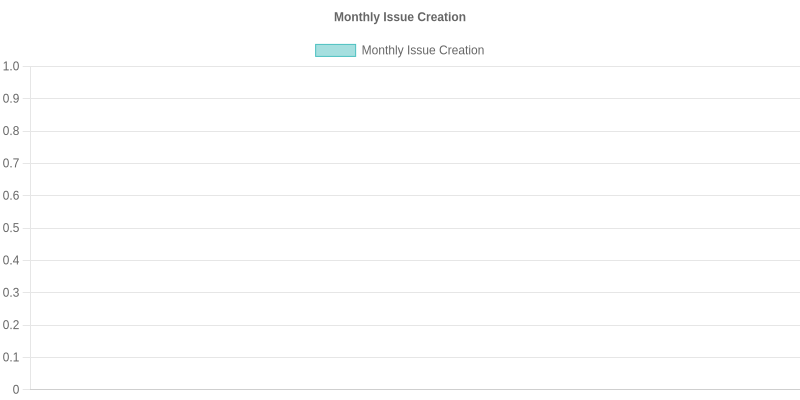
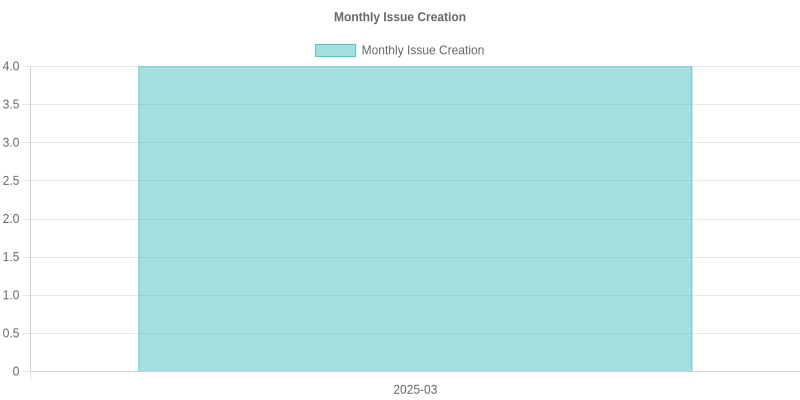
deploy: 07c3749c7718960ff4e5f8d883d745de041b5a2b

diff --git a/index.html b/index.html
@@ -19,18 +19,18 @@
   <body>
       <div class="container mt-4">
           <h1>プロジェクト Issue ダッシュボード</h1>
-          <p>最終更新: 2025/6/25 6:31:00</p>
+          <p>最終更新: 2025/6/25 12:42:16</p>
           
           <div class="row mt-4">
               <div class="col-md-4">
                   <div class="card stat-card">
-                      <div class="stat-number text-primary">0</div>
+                      <div class="stat-number text-primary">4</div>
                       <div>総Issue数</div>
                   </div>
               </div>
               <div class="col-md-4">
                   <div class="card stat-card">
-                      <div class="stat-number text-success">0</div>
+                      <div class="stat-number text-success">4</div>
                       <div>未解決Issue</div>
                   </div>
               </div>
@@ -51,6 +51,21 @@
                       <div class="card-body">
                           <ul class="list-group">
                               
+                                  <li class="list-group-item d-flex justify-content-between align-items-center">
+                                      バグ
+                                      <span class="badge bg-primary rounded-pill">2</span>
+                                  </li>
+                              
+                                  <li class="list-group-item d-flex justify-content-between align-items-center">
+                                      その他
+                                      <span class="badge bg-primary rounded-pill">1</span>
+                                  </li>
+                              
+                                  <li class="list-group-item d-flex justify-content-between align-items-center">
+                                      機能リクエスト
+                                      <span class="badge bg-primary rounded-pill">1</span>
+                                  </li>
+                              
                           </ul>
                       </div>
                   </div>
@@ -63,6 +78,11 @@
                       </div>
                       <div class="card-body">
                           <ul class="list-group">
+                              
+                                  <li class="list-group-item d-flex justify-content-between align-items-center">
+                                      未設定
+                                      <span class="badge bg-primary rounded-pill">4</span>
+                                  </li>
                               
                           </ul>
                       </div>
@@ -126,6 +146,34 @@
                                   </thead>
                                   <tbody>
                                       
+                                          <tr>
+                                              <td>5</td>
+                                              <td><a href="https://github.com/refrainit/python-project-template/issues/5" target="_blank">[バグ]:</a></td>
+                                              <td>バグ</td>
+                                              <td>未設定</td>
+                                          </tr>
+                                      
+                                          <tr>
+                                              <td>4</td>
+                                              <td><a href="https://github.com/refrainit/python-project-template/issues/4" target="_blank">[タスク]:</a></td>
+                                              <td>その他</td>
+                                              <td>未設定</td>
+                                          </tr>
+                                      
+                                          <tr>
+                                              <td>3</td>
+                                              <td><a href="https://github.com/refrainit/python-project-template/issues/3" target="_blank">[機能]:</a></td>
+                                              <td>機能リクエスト</td>
+                                              <td>未設定</td>
+                                          </tr>
+                                      
+                                          <tr>
+                                              <td>2</td>
+                                              <td><a href="https://github.com/refrainit/python-project-template/issues/2" target="_blank">[バグ]:</a></td>
+                                              <td>バグ</td>
+                                              <td>未設定</td>
+                                          </tr>
+                                      
                                   </tbody>
                               </table>
                           </div>
@@ -150,6 +198,34 @@
                                       </tr>
                                   </thead>
                                   <tbody>
+                                      
+                                          <tr>
+                                              <td>2</td>
+                                              <td><a href="https://github.com/refrainit/python-project-template/issues/2" target="_blank">[バグ]:</a></td>
+                                              <td>2025/3/15</td>
+                                              <td>未設定</td>
+                                          </tr>
+                                      
+                                          <tr>
+                                              <td>3</td>
+                                              <td><a href="https://github.com/refrainit/python-project-template/issues/3" target="_blank">[機能]:</a></td>
+                                              <td>2025/3/15</td>
+                                              <td>未設定</td>
+                                          </tr>
+                                      
+                                          <tr>
+                                              <td>4</td>
+                                              <td><a href="https://github.com/refrainit/python-project-template/issues/4" target="_blank">[タスク]:</a></td>
+                                              <td>2025/3/15</td>
+                                              <td>未設定</td>
+                                          </tr>
+                                      
+                                          <tr>
+                                              <td>5</td>
+                                              <td><a href="https://github.com/refrainit/python-project-template/issues/5" target="_blank">[バグ]:</a></td>
+                                              <td>2025/3/15</td>
+                                              <td>未設定</td>
+                                          </tr>
                                       
                                   </tbody>
                               </table>
